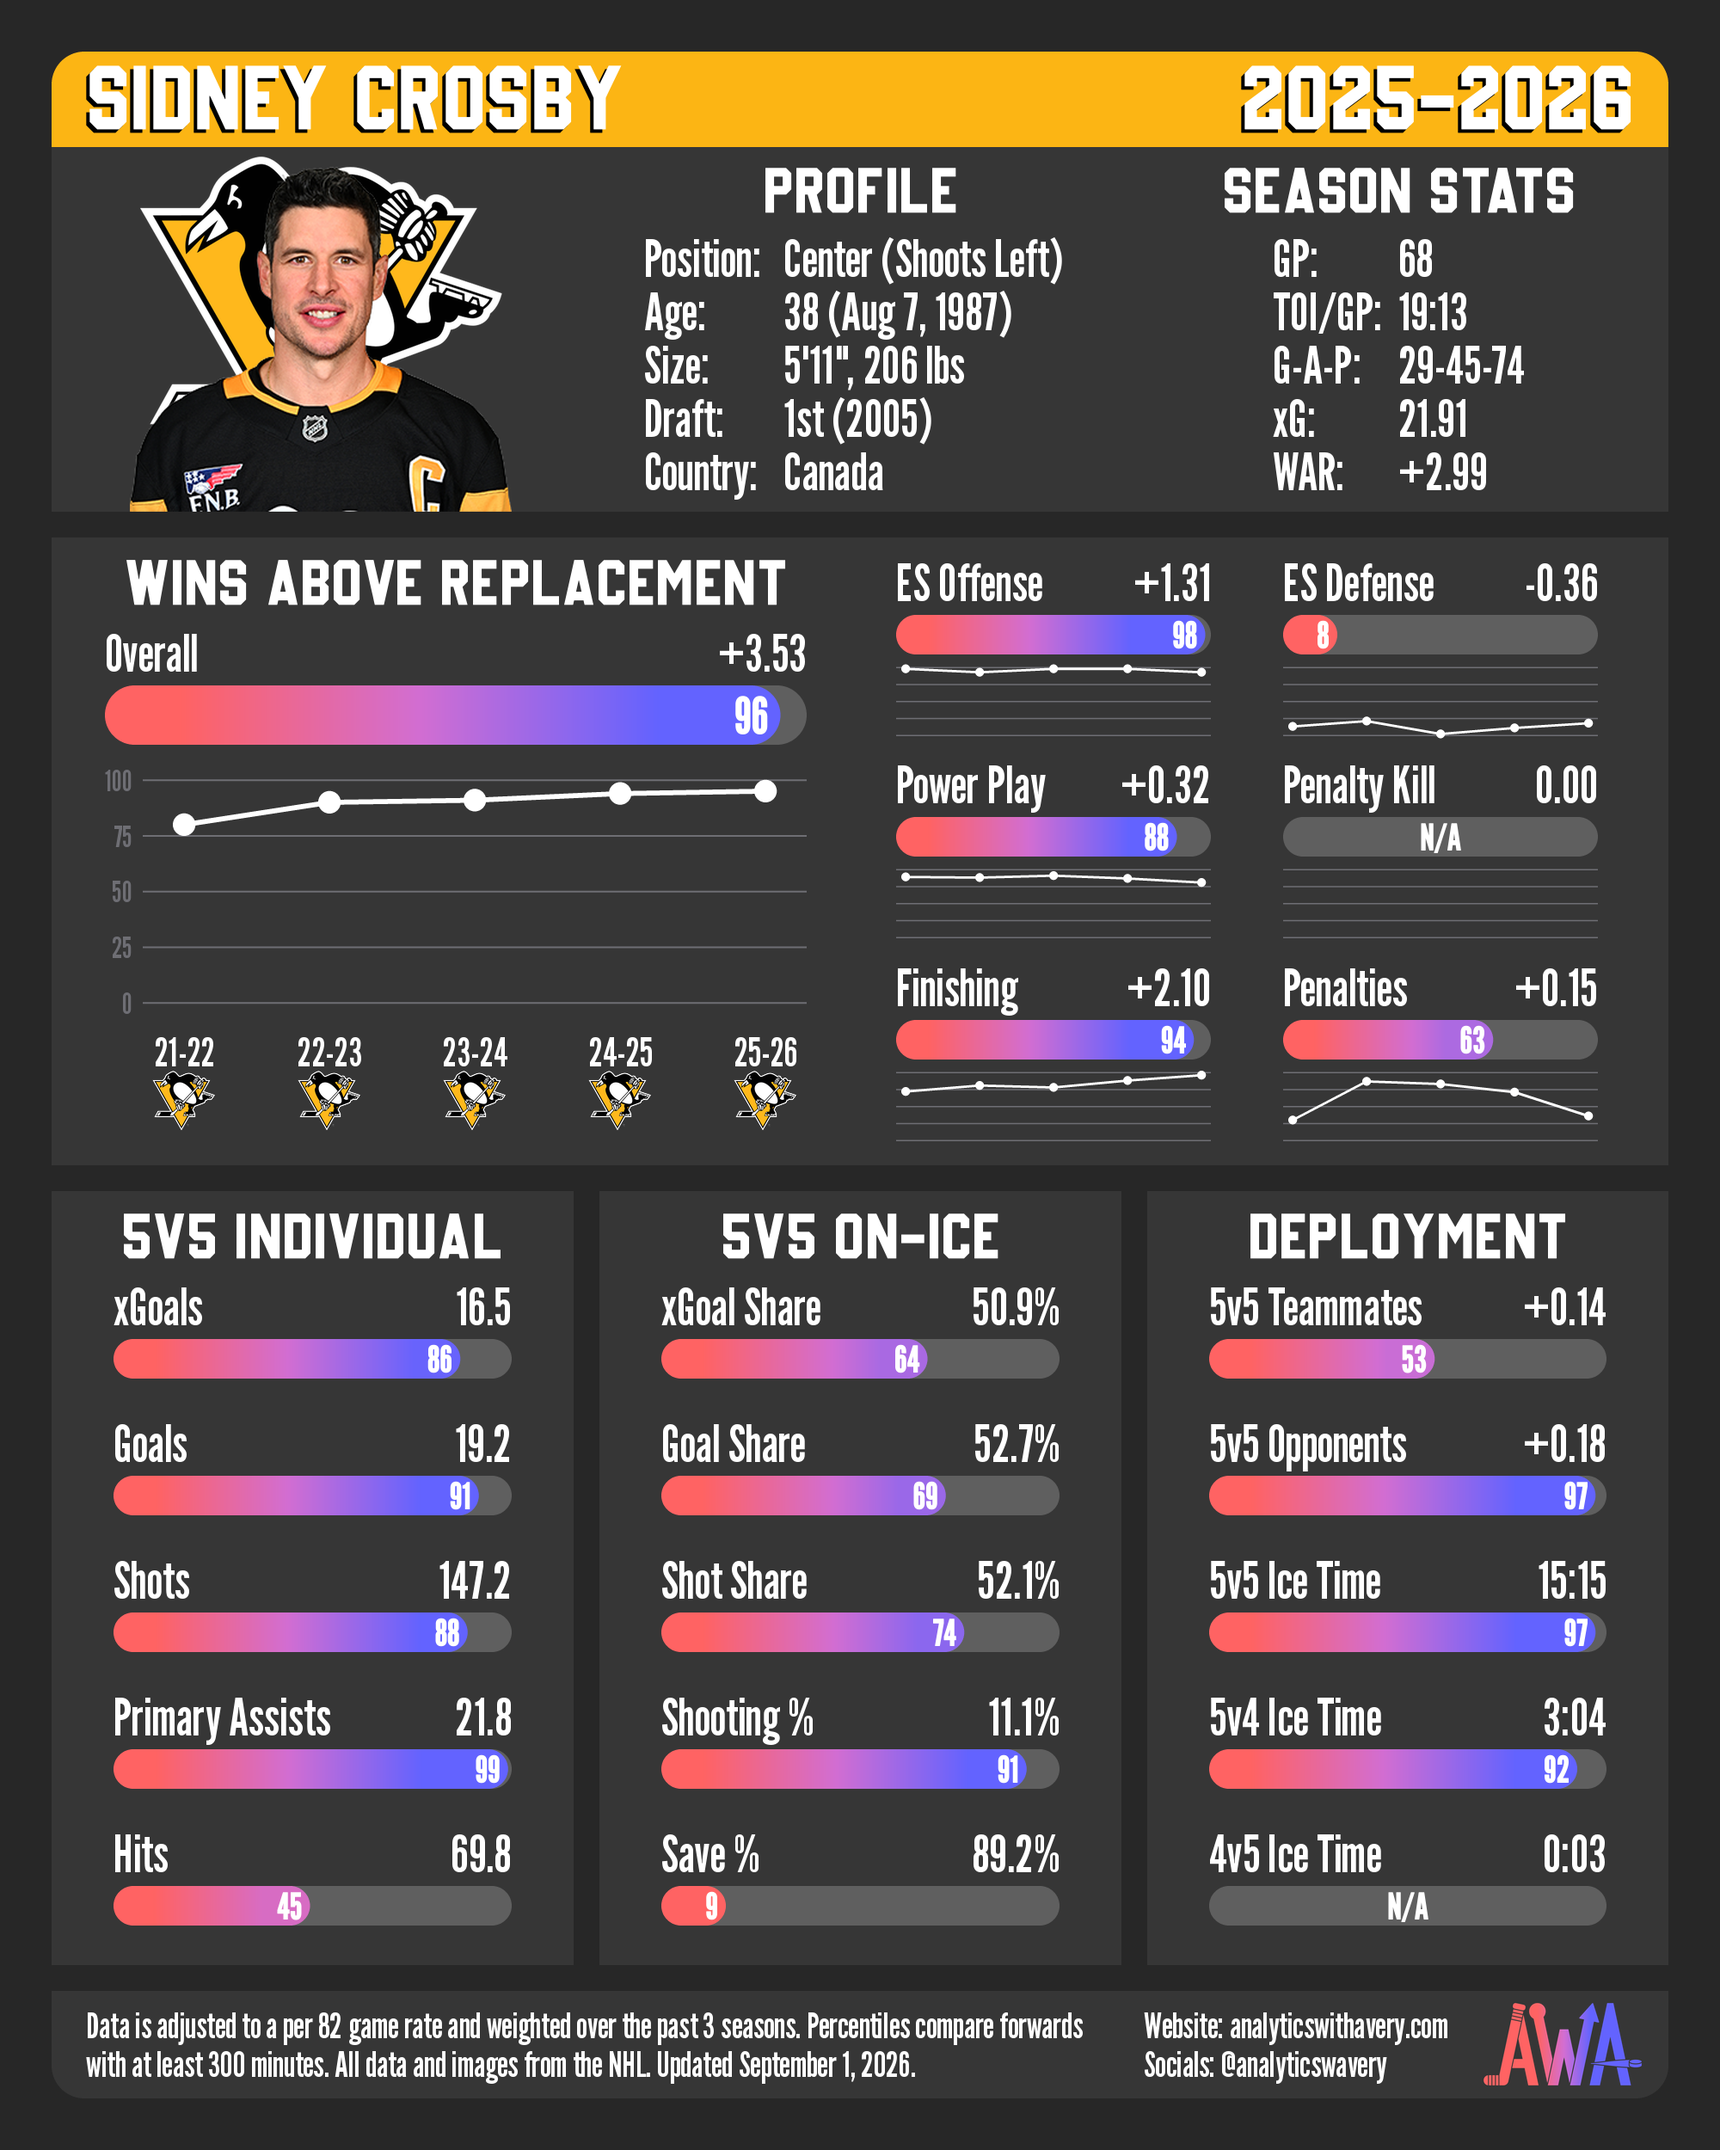
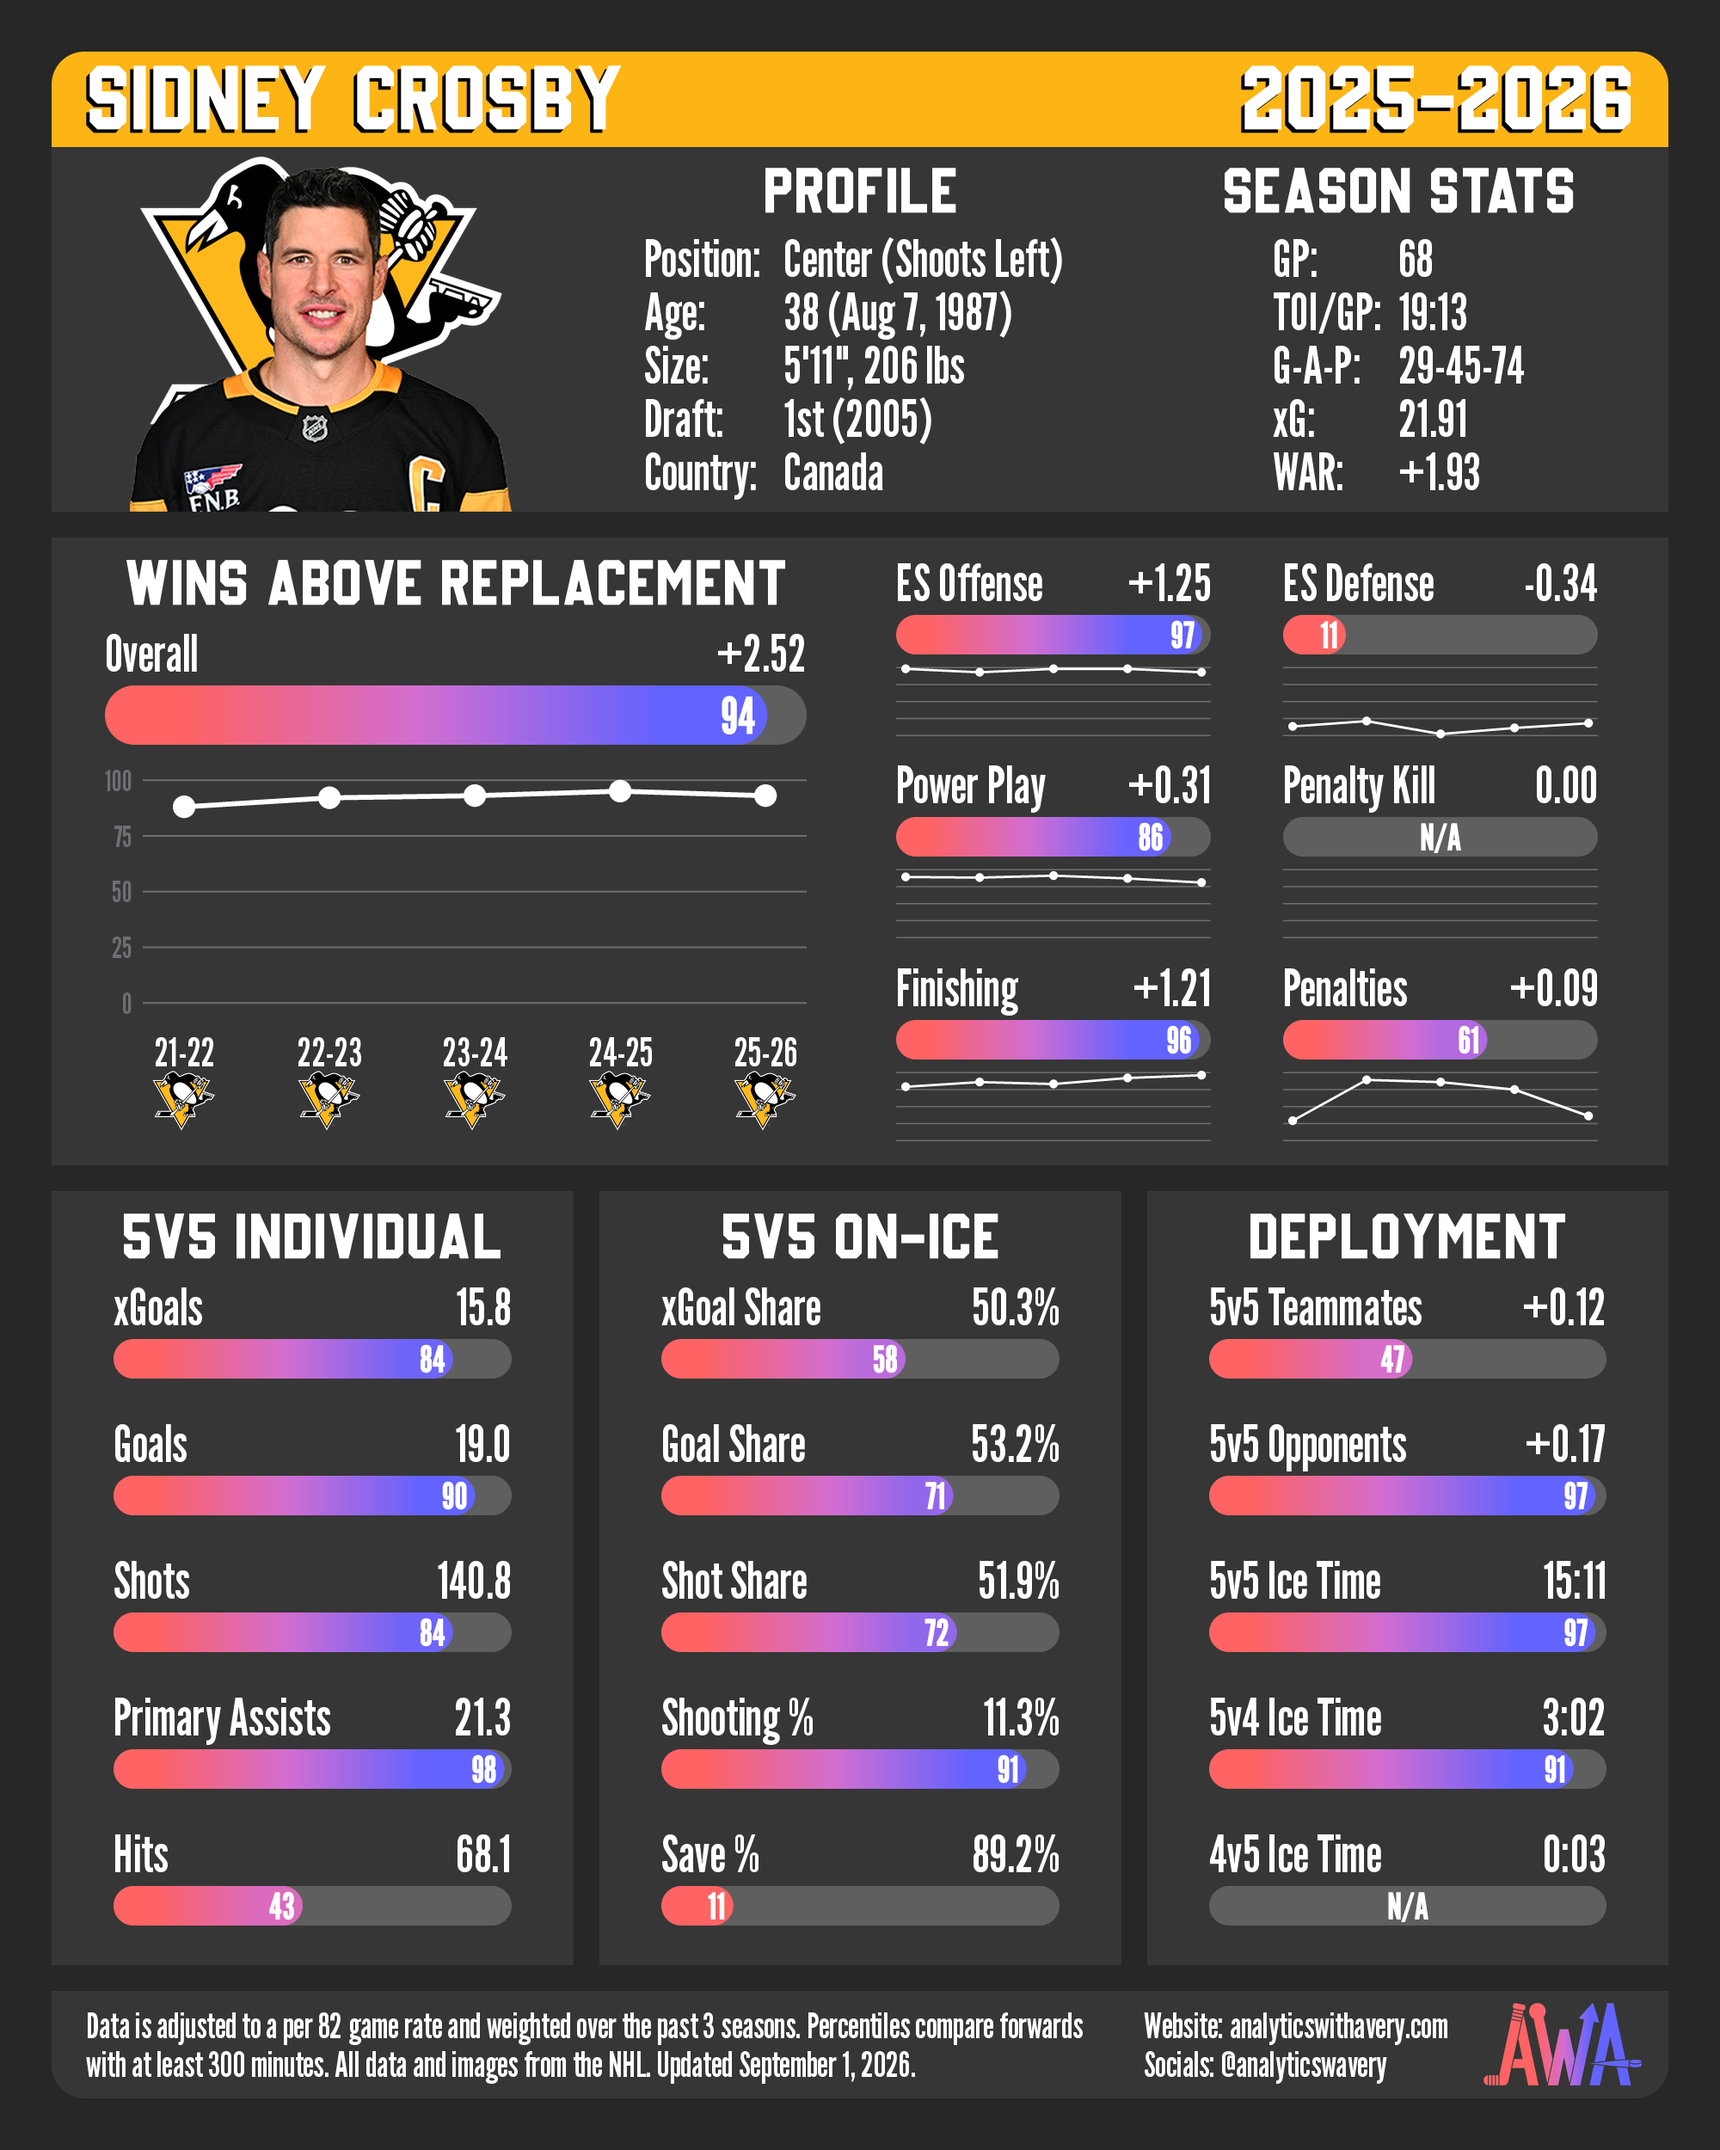
Update shot share to corsi share

diff --git a/src/player_card_project/constants.py b/src/player_card_project/constants.py
@@ -61,7 +61,7 @@ SKATER_STAT_DISPLAY = {
     'tot': ('Overall', 'war'), 'evo': ('ES Offense', 'war'), 'evd': ('ES Defense', 'war'),
     'ppl': ('Power Play', 'war'), 'pkl': ('Penalty Kill', 'war'), 'fin': ('Finishing', 'war'), 'pen': ('Penalties', 'war'),
     'xgl': ('xGoals', 'count'), 'gol': ('Goals', 'count'), 'ast': ('Primary Assists', 'count'), 'hit': ('Hits', 'count'),
-    'sho': ('Shots', 'count'), 'sfs': ('Shot Share', 'percent'), 'xfs': ('xGoal Share', 'percent'), 'gfs': ('Goal Share', 'percent'),
+    'sho': ('Shots', 'count'), 'sfs': ('Corsi Share', 'percent'), 'xfs': ('xGoal Share', 'percent'), 'gfs': ('Goal Share', 'percent'),
     'shp': ('Shooting %', 'percent'), 'svp': ('Save %', 'percent'),
     'toi': ('5v5 Ice Time', 'toi'), 'ppt': ('5v4 Ice Time', 'toi'), 'pkt': ('4v5 Ice Time', 'toi'), 'tmt': ('5v5 Teammates', 'war'),
     'cmp': ('5v5 Opponents', 'war'),
